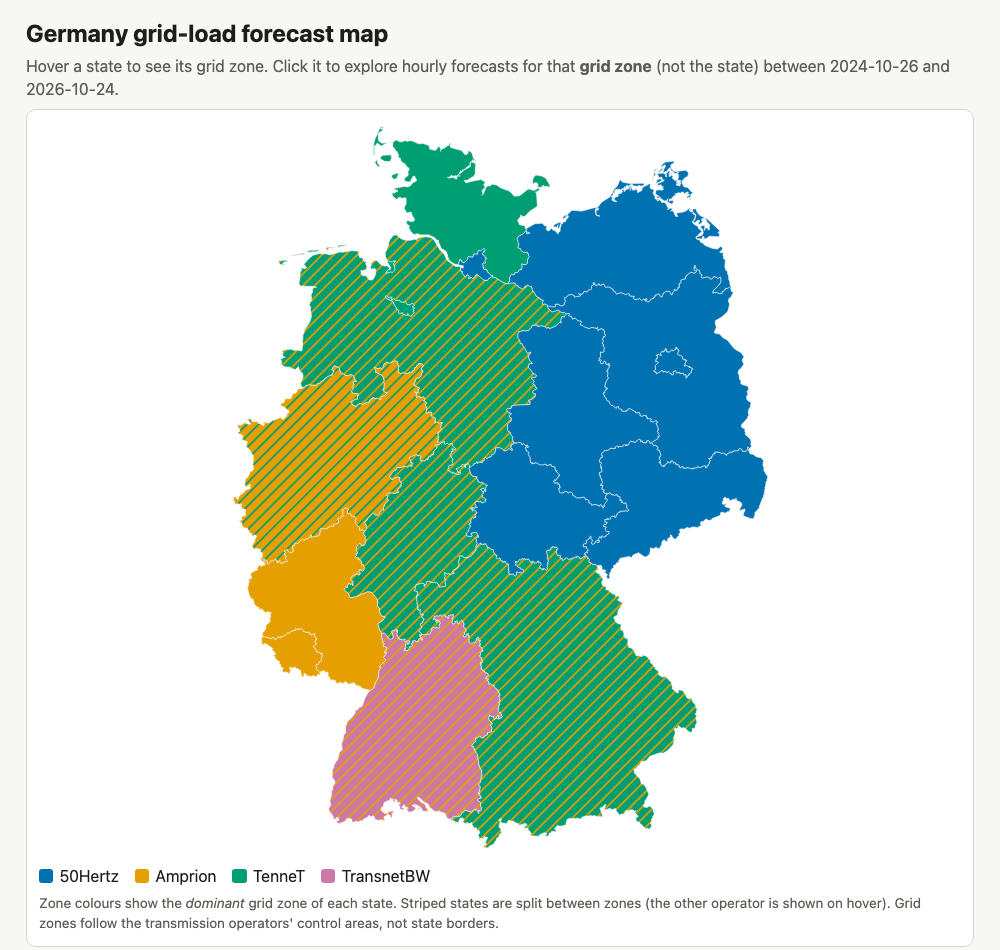
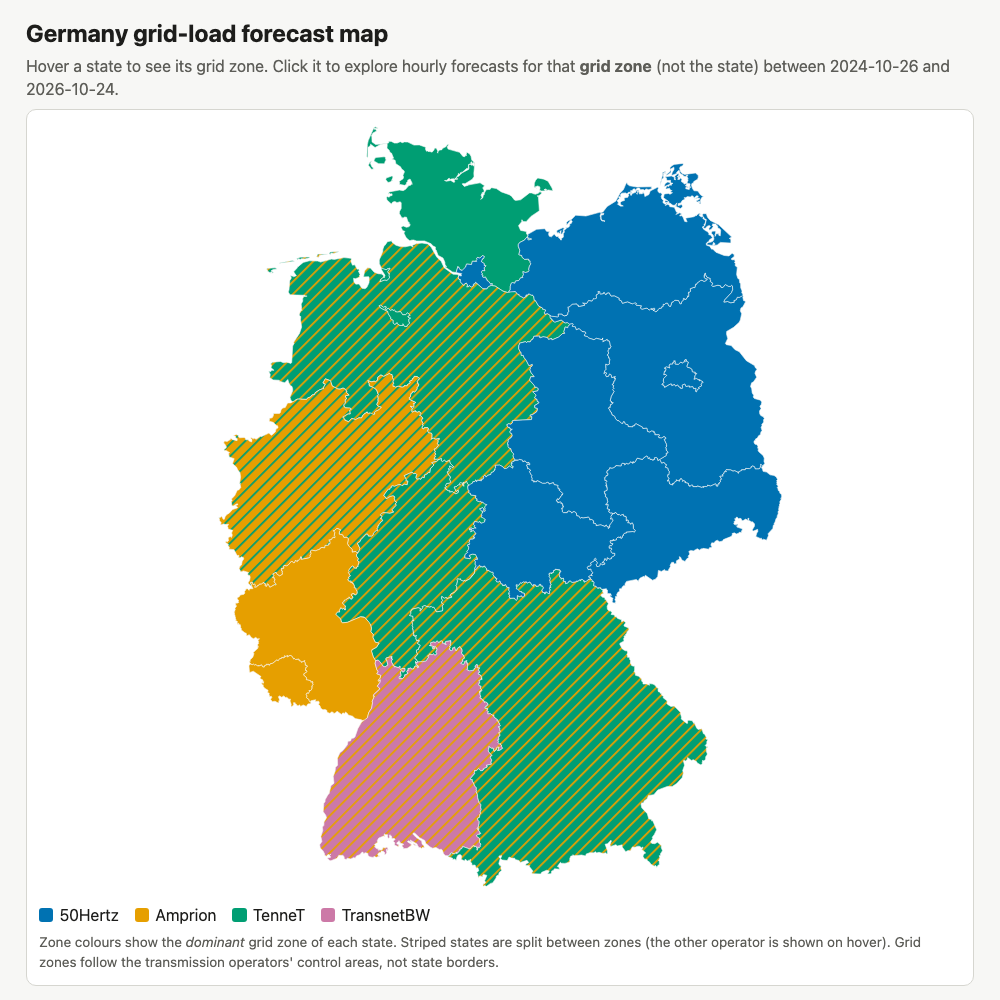
GitHub Pages: Actions workflow publishing site/, subpath test, screenshots retaken with the new footer

diff --git a/tests/test_site_data.py b/tests/test_site_data.py
@@ -83,3 +83,14 @@ def test_site_files_reference_existing_assets():
     assert "api_key" not in js.lower() and "apikey" not in js.lower()
     for needle in ("Bundesnetzagentur | SMARD.de", "Weather data by Open-Meteo.com", "dl-de/by-2-0", "not the state", "Unseen test period", "Validation period (used for tuning and calibration)", "Backtest using observed weather, not a live forecast."):
         assert needle in js or needle in html, needle
+
+def test_site_is_deployable_under_a_subpath_and_has_a_pages_workflow():
+    # GitHub Pages serves a project site under /<repo>/, so every URL must be relative (no leading slash, no origin).
+    html = (SITE / "index.html").read_text(); js = (SITE / "app.js").read_text(); css = (SITE / "style.css").read_text()
+    assert not re.search(r'(?:src|href)="/(?!/)', html), "root-absolute URL in index.html"
+    assert not re.search(r"fetch\(\s*[`'\"]/", js) and not re.search(r"getJSON\(\s*[`'\"]/", js), "root-absolute fetch in app.js"
+    assert not re.search(r"url\(\s*['\"]?/", css)
+    wf = (SITE.parent / ".github/workflows/pages.yml").read_text()
+    assert "actions/upload-pages-artifact" in wf and "actions/deploy-pages" in wf and re.search(r"path:\s*site\s*$", wf, re.M)
+    assert "git push" not in wf
+    for needed in ("index.html", "app.js", "style.css", "data/meta.json", "data/states.geojson"): assert (SITE / needed).exists(), needed
